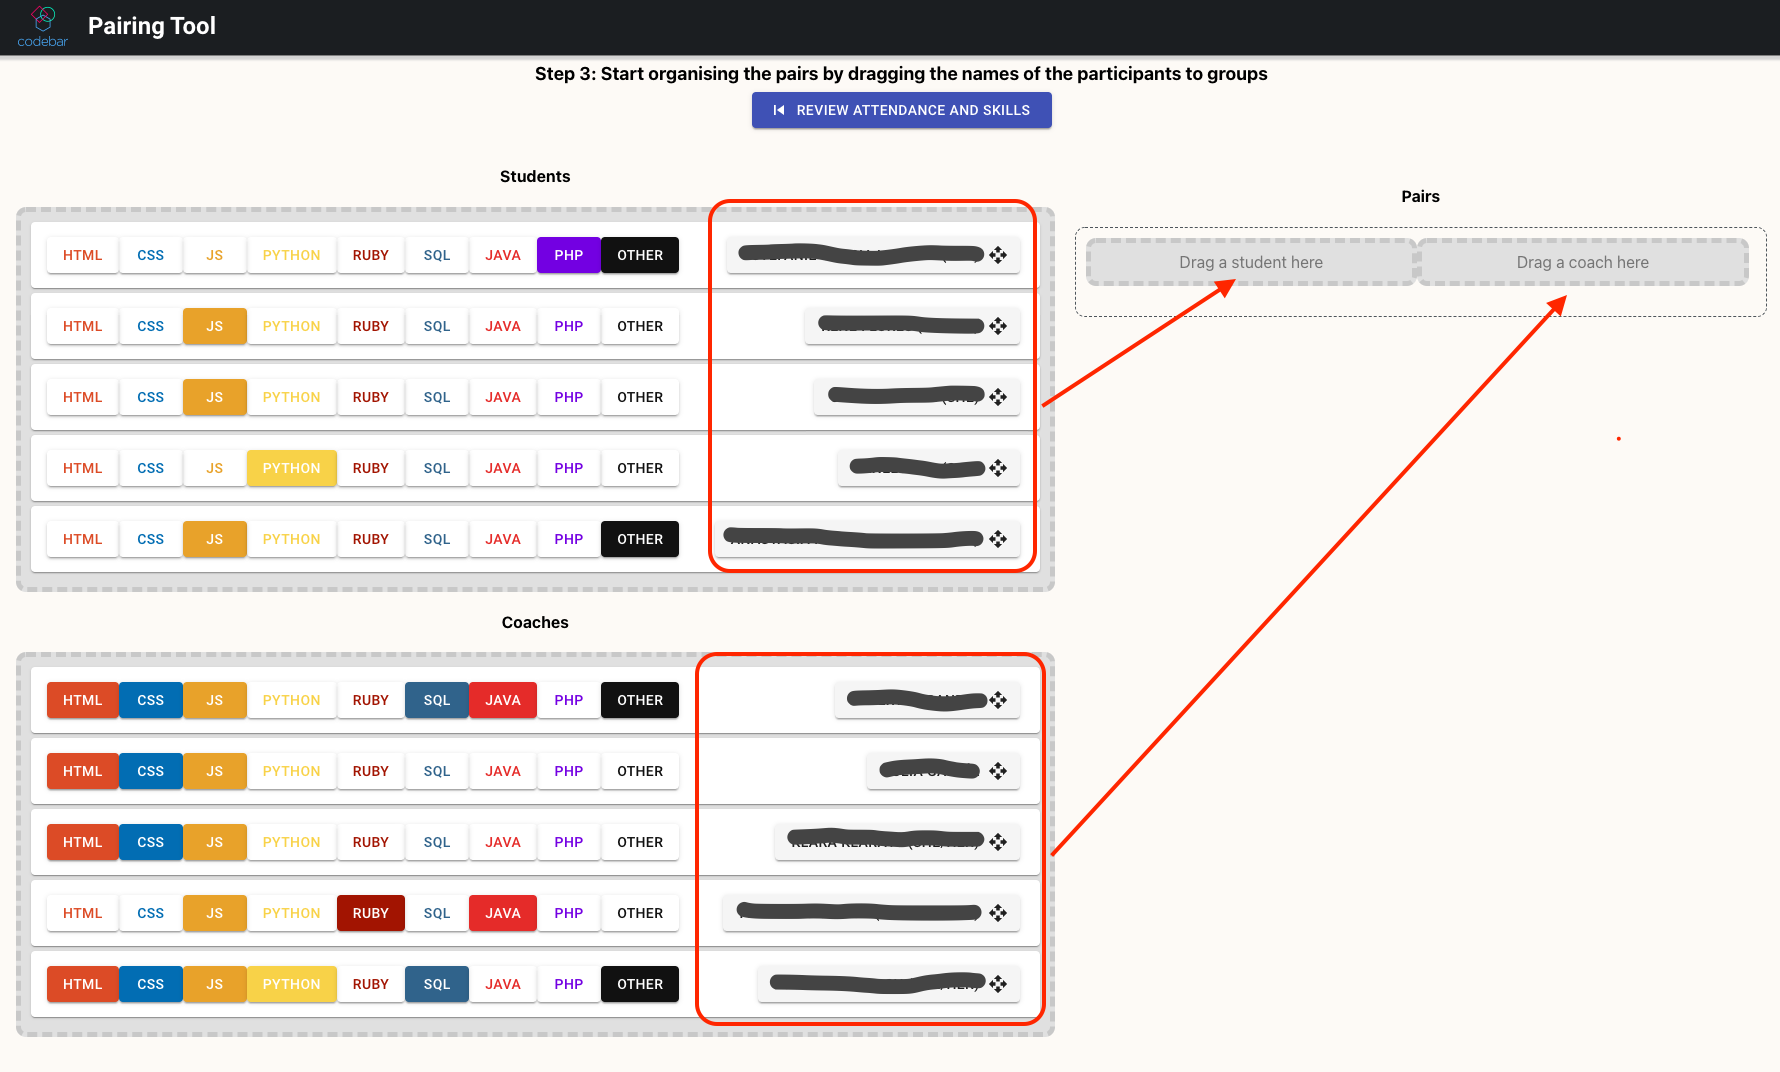
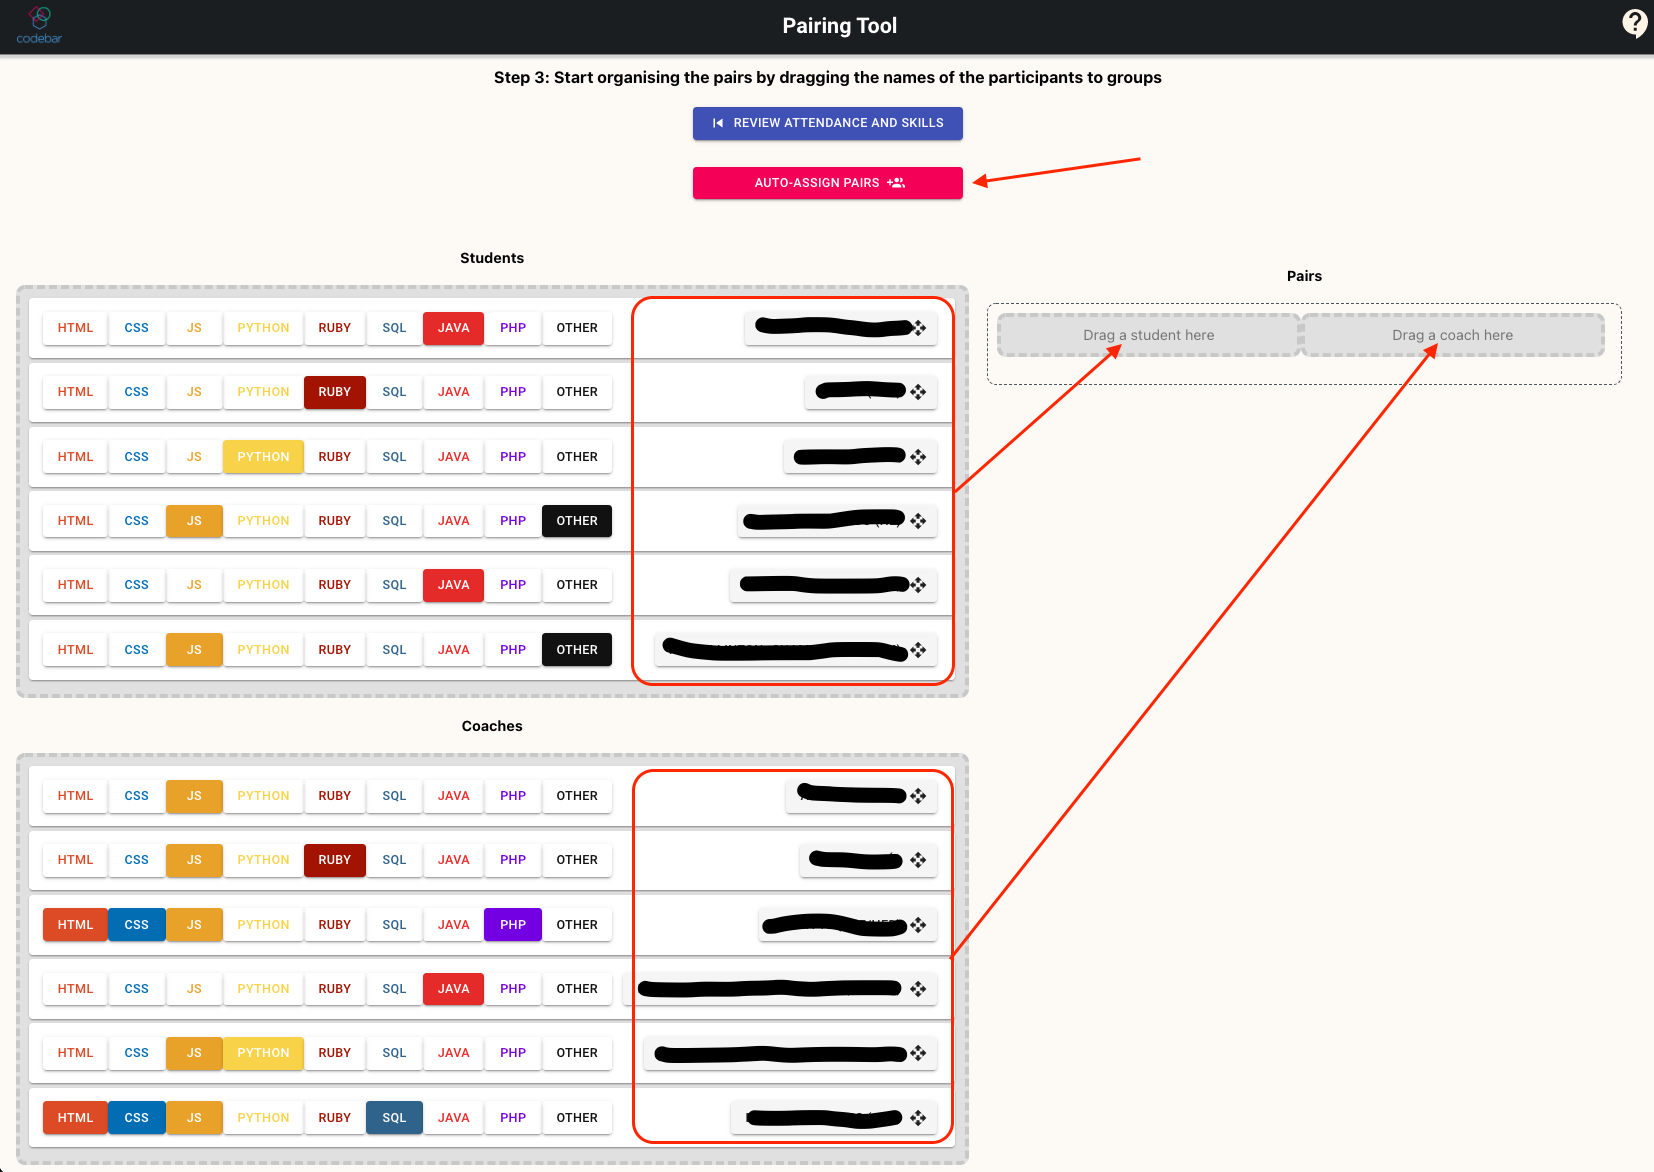
release the auto-assign pairs button + update documentation

diff --git a/src/config/featureToggles.js b/src/config/featureToggles.js
@@ -1,3 +1,3 @@
 export const featureToggles = {
-  autoPairingsButton: false
+  autoPairingsButton: true
 }

diff --git a/doc/UserManual.md b/doc/UserManual.md
@@ -41,16 +41,43 @@ Once all the attendees are reviewed and updated, click on the `Continue to Pairi
 
 ### 3. Sort the pairings
 
-Start dragging and dropping students and coaches into the respective destination boxes.
+To sort the pairs, there are 2 available features: 
+
+* You can drag and drop students and coaches to specific pair slots
+* You can click the "Auto-Assign Pairs" buttons
 
 ![Drag and drop students and coaches](images/drag-and-drop-pairs.png)
 
-When you drag and drop a person, in the pair box will be displayed the skills that everyone in that pair have in common.
+#### Drag and Drop participants
 
-Also, a new box for a new pair will appear to form more pairs.
+You can drag and drop participants by their name: 
+* From the list of available participants to a pair group
+* From a pair group to another pair group
+* From a pair group back to the list of available participants
 
-It is possible to drag more than 1 student/coach in a pair, so it is possible to have triples and give 2 students to a coach or pair 2 coaches with 1 student.
+When you drag and drop a person to a pair group: 
+* The list of all languages in common to everyone in the group will be displayed, and refreshed whenever the group changes.
+* A new box for a new pair will appear if you used the only empty group.
+
+It is possible to drag more than 1 student/coach in a group, in case you want to build a bigger group.
 
 ![Pairings in progress](images/pairings-in-progress.png)
+
+#### Auto-Assign Pairs
+
+> :warning: NOTE: Finding Pairs auto-magically is a complex problem, and we are all human, there are some aspects that
+are hard to take into account for different algorithms, or it would be so expensive to do so.
+
+When clicking this button, the pairing tool will try to:
+* Find the maximum amount of pairs possible
+* Only find 1:1 pairs, it will not assign 2 students to 1 coach
+* It might not find a pair for everyone.
+* It will NOT modify existing pairs, so you can pre-pair people before using the button
+* It will NOT try to fill half-pairs (where only a student, or a coach is placed in a pair group)
+
+Also, you will still be able to move people around and change the generated pairs after clicking the button.
+
+Or even, if you do undo some pairs by dragging the people back to the list of available students and/or, and then click again, it will try to find pairs again.
+
 
 ### 4. Well done, now announce the pairs!!!
